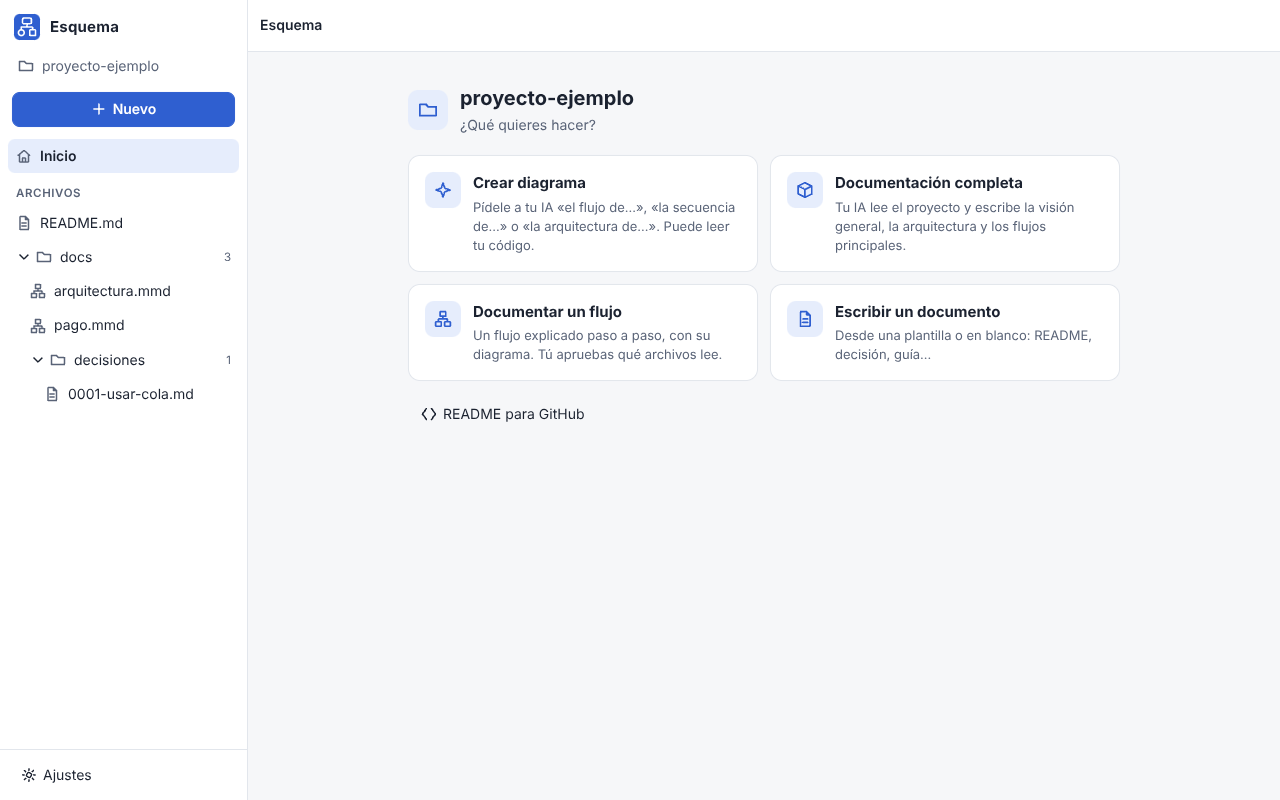
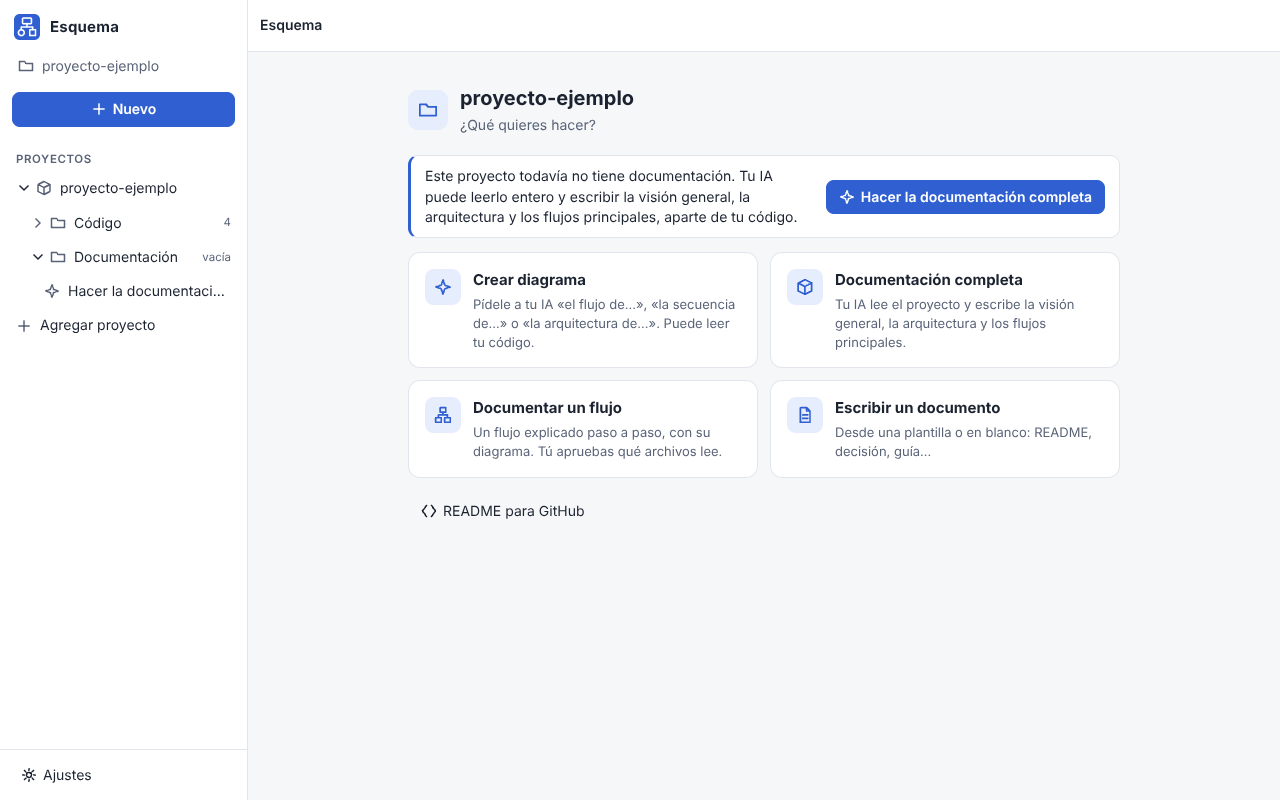
Toda carpeta abierta se ve como proyecto: Código y Documentación
Una carpeta sin documentación ya no muestra sus archivos sueltos: queda como un
proyecto con «Código» (cerrado) y «Documentación» (vacía), que invita a hacer la
documentación completa, igual que el inicio.

Claude-Session: https://claude.ai/code/session_01KpU2atjKqDCfgo8tLm5WmV

diff --git a/ui/proyectos.js b/ui/proyectos.js
@@ -341,7 +341,11 @@
     /** Los .md/.mmd del repo del código de un proyecto vinculado se abren con este prefijo (no están en la carpeta abierta). */
     const CODIGO = "@codigo/";
     const esCodigo = (r) => typeof r === "string" && r.startsWith(CODIGO);
-    const esProyecto = () => !!(E.proyecto || E.vinculo);
+    /** Toda carpeta abierta se muestra como proyecto: su código y su documentación (aunque todavía no tenga). */
+    const esProyecto = () => !!E.carpeta;
+    const sinDocumentacion = () => !E.proyecto && !vinculado();
+    /** Si un archivo abierto está en la carpeta «Código» del lateral. */
+    const esDeCodigo = (r) => !!r && (esCodigo(r) || (!vinculado() && (sinDocumentacion() || !r.startsWith(docsDir() + "/"))));
     function leerCodigo(ruta) { enviar("codigo_leer", { ruta: ruta.slice(CODIGO.length) }); }
     function guardarCodigo(ruta, texto) { enviar("codigo_guardar", { ruta: ruta.slice(CODIGO.length), texto }); }
     /** Los documentos del código y de la documentación, cada uno como su propio árbol. */
@@ -350,6 +354,7 @@
         const cod = (E.codigoDocs?.archivos || []).map((a) => ({ ...a, ruta: CODIGO + a.ruta }));
         return { codigo: arbolDe(cod).carpetas.get(CODIGO.slice(0, -1)) || arbolDe([]), nCodigo: cod.length, docs: arbolDe(E.archivos), nDocs: E.archivos.length };
       }
+      if (sinDocumentacion()) return { codigo: arbolDe(E.archivos), nCodigo: E.archivos.length, docs: arbolDe([]), nDocs: 0 };
       const d = docsDir(), dentro = (r) => r.startsWith(d + "/");
       const enDocs = E.archivos.filter((a) => dentro(a.ruta)), fuera = E.archivos.filter((a) => !dentro(a.ruta));
       let raiz = arbolDe(enDocs);
@@ -371,8 +376,9 @@
         const [abD, filaD] = carpeta("#docs", 1, "carpeta", `<span>Documentación</span>`, `<small data-sin-traducir>${partes.nDocs || esc(tr("vacía"))}</small>`, `data-p-docs aria-current="${p === "proyecto"}"`);
         const extras = E.proyecto ? `<button class="archivo" style="--n:2" data-p="elementos" aria-current="${p === "elementos"}">${ic("elemento")}<span>Elementos</span><small data-sin-traducir>${x.elementos.length}</small></button>
           <button class="archivo" style="--n:2" data-p="versiones" aria-current="${p === "versiones"}">${ic("historia")}<span>Versiones</span>${E.proyecto.pendiente ? `<small>Sin guardar</small>` : ""}</button>` : "";
+        const docs = partes.nDocs ? arbolHTML(partes.docs, 2) : `<button class="archivo" style="--n:2" data-accion="p-documentar">${ic("chispa")}<span>Hacer la documentación completa</span></button>`;
         html += `<div role="group">${filaC}${abC ? `<div role="group">${arbolHTML(partes.codigo, 2) || `<p class="vacio" style="--n:2">El código no tiene documentos .md ni diagramas.</p>`}</div>` : ""}
-          ${filaD}${abD ? `<div role="group">${extras}${arbolHTML(partes.docs, 2)}</div>` : ""}</div>`;
+          ${filaD}${abD ? `<div role="group">${extras}${docs}</div>` : ""}</div>`;
       }
       const actual = E.carpeta?.ruta;
       const otros = E.recientes.map((r, i) => [r, i]).filter(([r]) => r.ruta !== actual);
@@ -771,8 +777,9 @@
       }
       if (d.pDocs !== undefined) {
         // La carpeta «Documentación»: abre lo que tiene y lo que le falta (o, vacía, la invitación a documentar todo).
-        E.abiertas["#docs"] = E.panel === "proyecto" && !E.sel ? !(E.abiertas["#docs"] ?? true) : true;
-        E.panel = "proyecto"; E.sel = null; E.lateral = false; api.pintar(); return true;
+        E.abiertas["#docs"] = (E.panel === "proyecto" || (sinDocumentacion() && !E.panel)) && !E.sel ? !(E.abiertas["#docs"] ?? true) : true;
+        // Sin documentación todavía: el inicio de la carpeta, que invita a hacerla completa.
+        E.panel = sinDocumentacion() ? null : "proyecto"; E.sel = null; E.lateral = false; api.pintar(); return true;
       }
       if (d.pReciente !== undefined) { E.lateral = false; pj.pedido = true; host.enviar("abrirProyecto", { indice: Number(d.pReciente) }); return true; }
       if (d.pElemento !== undefined && !d.accion) { E.lateral = false; E.menu = null; pj.elemento = d.pElemento; pj.editar = null; E.panel = "elementos"; api.pintar(); return true; }
@@ -940,7 +947,7 @@
     function hayDialogo() { return !!(pj.dialogo || pj.generando); }
     function cerrarDialogo() { pj.dialogo = null; if (pj.generando) { pj.generando = null; } }
 
-    return { lateralHTML, recientesHTML, esProyecto, esCodigo, leerCodigo, guardarCodigo, barraHTML, areaHTML, dialogoHTML, menuElementosHTML, botonElemento, clic, respuesta, despuesDePintar, enlace, pedirIA,
+    return { lateralHTML, recientesHTML, esProyecto, sinDocumentacion, esDeCodigo, esCodigo, leerCodigo, guardarCodigo, barraHTML, areaHTML, dialogoHTML, menuElementosHTML, botonElemento, clic, respuesta, despuesDePintar, enlace, pedirIA,
       alCambiarCarpeta, alAbrirArchivo, alGuardarArchivo, alCambiarArchivos, hayDialogo, cerrarDialogo, simular,
       _: { armarPropuestas, docsProyecto, cargarDocs, loQueFalta, pedidoCompletar } };
 

diff --git a/ui/app.js b/ui/app.js
@@ -275,7 +275,7 @@
     if (ruta in E.abiertas) return E.abiertas[ruta];
     // Las carpetas del proyecto en el lateral: el proyecto y su documentación abiertos; el código, cerrado salvo que tenga lo abierto.
     if (ruta === "#p" || ruta === "#docs") return true;
-    if (ruta === "#codigo") return P.esCodigo(E.sel);
+    if (ruta === "#codigo") return P.esDeCodigo(E.sel);
     if (P.esCodigo(ruta)) return !!E.sel && E.sel.startsWith(ruta + "/");
     const dentro = (r) => r && (r === ruta || r.startsWith(ruta + "/"));
     return E.archivos.length <= 20 || (E.sel && dentro(carpetaDe(E.sel))) || (E.proyecto && dentro(E.proyecto.docs));
@@ -349,6 +349,7 @@
   /** Inicio de una carpeta: lo que se puede hacer, en palabras de quien la usa. Los proyectos lo muestran en su panel. */
   function inicioHTML() {
     return `<div class="inicio"><div class="inicio-cab"><span class="p-icono">${ic("carpeta")}</span><div><h2 data-sin-traducir>${esc(E.carpeta.nombre)}</h2><p>¿Qué quieres hacer?</p></div></div>
+      ${P.sinDocumentacion() ? `<div class="p-aviso inicio-docs"><span>Este proyecto todavía no tiene documentación. Tu IA puede leerlo entero y escribir la visión general, la arquitectura y los flujos principales, aparte de tu código.</span><button class="boton principal" data-accion="p-documentar">${ic("chispa")} Hacer la documentación completa</button></div>` : ""}
       ${accionesInicioHTML()}
       <p class="inicio-mas"><button class="boton plano" data-accion="readme">${ic("github")} README para GitHub</button></p></div>`;
   }

diff --git a/AGENTS.md b/AGENTS.md
@@ -188,10 +188,10 @@ error, el lienzo sigue mostrando el último dibujo bueno (atenuado) y la línea 
   para un nodo nuevo; en un `.md`, dentro de los bloques mermaid.
 - **Documento:** texto | vista con los diagramas dibujados (`resultadoBloque` con caché); «Editar» abre el bloque en el lienzo en el
   lugar (el texto sigue siendo el del documento); los enlaces nunca navegan (https → navegador; relativos → abre ese archivo).
-- **Lateral de un proyecto** (`P.lateralHTML`, cuando hay `E.proyecto` o `E.vinculo`): «Proyectos» con una carpeta por proyecto; el
+- **Lateral de un proyecto** (`P.lateralHTML`: toda carpeta abierta se ve como proyecto): «Proyectos» con una carpeta por proyecto; el
   abierto trae **Código** (los `.md`/`.mmd` del repo: `E.codigoDocs` en uno vinculado, o lo que queda fuera de `docsDir()` en uno de
-  antes) y **Documentación** (Elementos, Versiones y sus documentos). Tocar «Documentación» (`data-p-docs`) abre su panel: vacía, la
-  invitación a documentar todo («Lo que encontré»); con algo, **Lo que falta** (`loQueFalta`: visión, arquitectura, flujos,
+  antes; todo, si aún no tiene documentación) y **Documentación** (Elementos, Versiones y sus documentos). Tocar «Documentación»
+  (`data-p-docs`) abre su panel: vacía (`P.sinDocumentacion()`), el inicio de la carpeta con «Hacer la documentación completa»; con algo, **Lo que falta** (`loQueFalta`: visión, arquitectura, flujos,
   elementos, elementos que ningún documento nombra y commits nuevos) con «Completar lo que falta» (tarea `completar`, con el pedido
   armado por `pedidoCompletar`: la IA escribe solo lo que falta). Claves de `E.abiertas`: `#p`, `#codigo`, `#docs`.
 - **Lateral e inicio:** la carpeta como árbol (`arbolDe`/`arbolHTML`; `E.abiertas` guarda lo que la persona abrió o cerró y, si no
